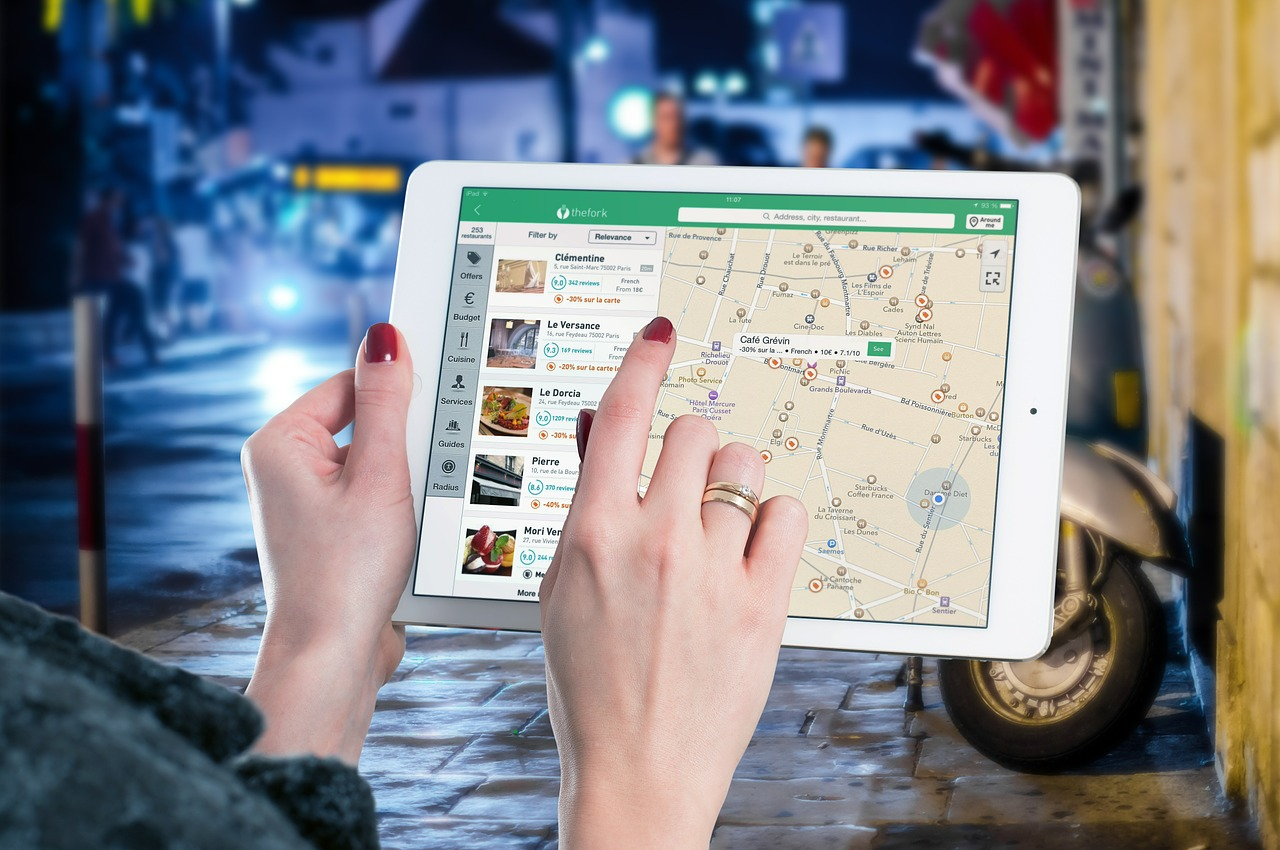
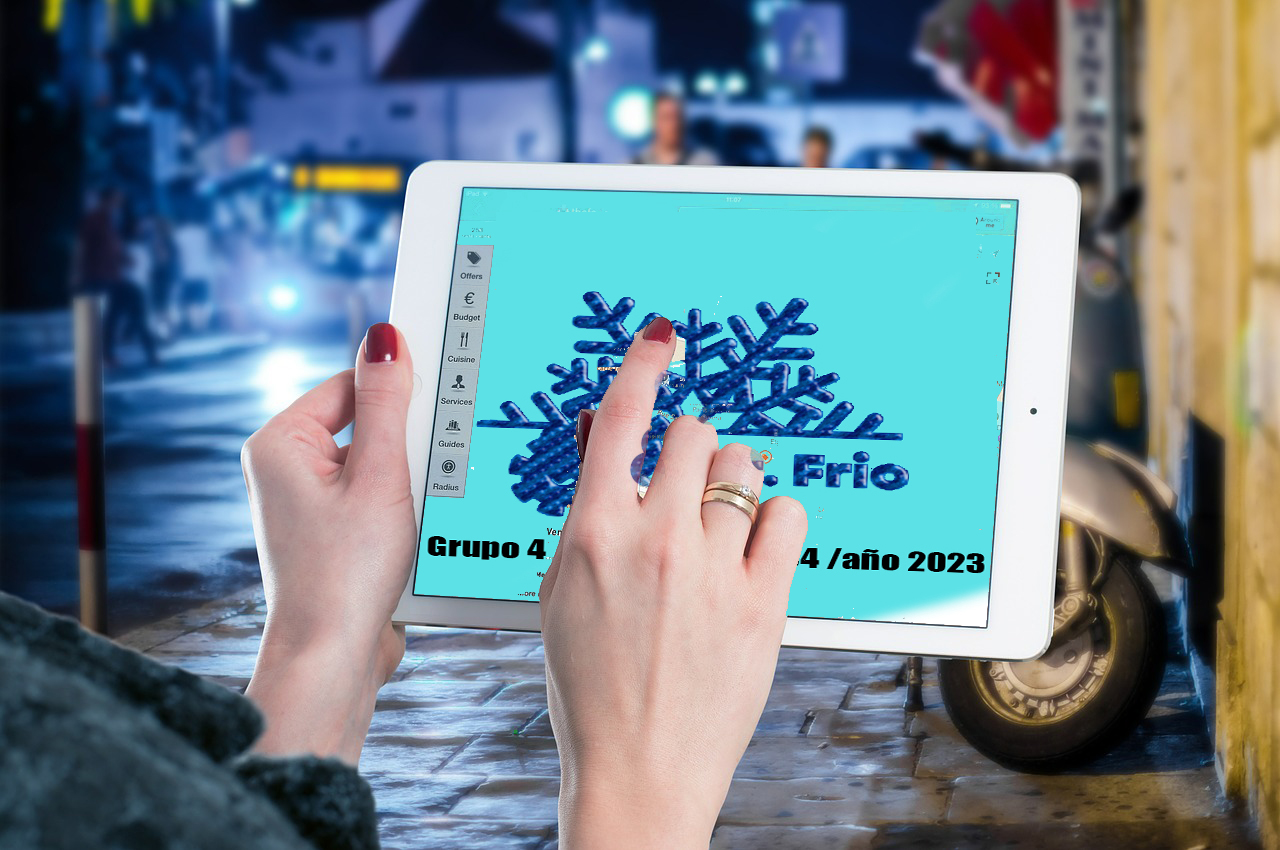
se copio codigo de style_index a Lstyle

Changed region(s): [[0.3125, 0.2141, 0.8125, 0.7341]]

diff --git a/Index copy.html b/Index copy.html
@@ -46,9 +46,9 @@ VERSION : 1.0
 <section id="hero">
 
     <h1>
-    ¡Contrata nuestros servicios <br>ahora!
+        ¡Somos <span class="color-acento">DR Frio!</span><br>servicios las  24hs
     </h1>
-    <a href=""><button>Contrata ahora</button></a>
+    <a href="https://www.youtube.com/lae2005"><button>Contrata ahora</button></a>
 </section>
 <!--fin contrata nuestros servicios banner-->
 <section id="contrata-ahora">
@@ -131,14 +131,93 @@ VERSION : 1.0
 <!--asistencia telefonica-->
 
 
+
+ <!-- seccion contacto -->
+ <div class="contacto" id="contacto">
+    <div>
+        <h2 id="titulo">Contacto</h2>
+        <ul id="lista-contacto">
+            <li><strong>Estamos para ayudarte, contactanos</strong></li>
+            <li><i class="fa-brands fa-whatsapp" style="margin-right: 5px; color:#578fe2;"></i>Escribenos un Whatsapp al:
+                11 2243-1005</li>
+            <li><i class="fa-solid fa-phone-flip" 
+                style="margin-right: 5px; color:#578fe2;"></i>Llamanos al: 11 2243-1005</li>
+            <li><i class="fa-solid fa-envelope" 
+                style="margin-right: 5px; color:#578fe2;"></i>Envianos un email a: 
+                <a href="">drfrio@miemail.com</a></li>
+        </ul>
+    </div>
+
+    <form id="form" class="form" action="" method="">
+        <div class="input-group">
+            <div class="form-control">
+                <label for="nombre">Nombre</label>
+                <input type="text" 
+                    name="nombre" 
+                    id="nombre" 
+                    placeholder="Ingresa tu nombre">
+                    <i class="fas fa-check-circle"></i>
+                    <i class="fas fa-exclamation-circle"></i>
+                <small>Error message</small>
+            </div>
+
+            <div class="form-control">
+                <label for="telefono">Teléfono</label>
+                <input type="tel" 
+                    name="telefono" 
+                    id="telefono" 
+                    placeholder="Ingresa tu telefono">
+                <i class="fas fa-check-circle"></i>
+                <i class="fas fa-exclamation-circle"></i>
+                <small>Error message</small>
+            </div>
+
+            <div class="form-control">
+                <label for="email">Email</label>
+                <input type="email" 
+                    name="email" 
+                    id="email" 
+                    placeholder="example@email.com">
+                <i class="fas fa-check-circle"></i>
+                <i class="fas fa-exclamation-circle"></i>
+                <small>Error message</small>
+            </div>
+
+            <div class="form-control">
+                <label for="mensaje">Mensaje</label>
+                <textarea name="mensaje" 
+                    id="mensaje" 
+                    cols="38" 
+                    rows="5" 
+                    placeholder="Ingresa tu mensaje"></textarea>
+                <i class="fas fa-check-circle"></i>
+                <i class="fas fa-exclamation-circle"></i>
+                <small>Error message</small>
+            </div>
+            <button class="boton" type="submit">Enviar</button>
+        </div>
+    </form>
+</div>
+</main>
+
+
+
+
+
+<!-- script para validacion del formulario -->
+<script src="../validacion/validacion.js"></script>
+
+
+
 <!--final page footer-->
 <footer>
-<div class="container">
-    <p>&copy; DR. Frio 2023</p>
-</div>
-</footer>
-<!--fin final page footer-->
-
+    <div class="container">
+        <img src="Img/Dr._Frio.png" alt="logo-footer">
+        <p class="copyright">&copy; DR. Frio 2023</p>
+    </div>
+    </footer>
+    <!--fin final page footer-->
+    
 
 </body>
 

diff --git a/style/Lstyle.css b/style/Lstyle.css
@@ -187,3 +187,147 @@ footer .container{
 	align-items: flex-end;
 	background-color: grey;
 }
+
+
+
+
+/* estilos seccion contacto */
+
+#titulo {
+    font-size: 2.125rem;
+    padding-top: 55px;
+    text-align: center;
+    margin-bottom: 0;
+}
+
+#lista-contacto {
+    text-align: center;
+    padding: 12px;
+    list-style: none;
+    font-size: 1.6rem;
+}
+
+#lista-contacto li {
+    padding: 6px;
+    margin-bottom: 5px
+}
+
+#lista-contacto li a {
+    text-decoration: none;
+}
+
+form {
+    padding: 2rem;
+    border-radius: 0.5rem;
+    width: 50%;
+    margin: 3.125rem auto 3rem auto;
+    box-shadow: 0 0 20px rgba(0, 0, 0, 0.1);
+}
+
+.form-control{
+    margin-bottom: 10px;
+    padding-bottom: 20px;
+    position: relative;
+}
+
+.input-group {
+    display: flex;
+    flex-direction: column;
+    text-align: left;
+}
+
+label {
+    color: rgb(94, 94, 94);
+    font-size: 15px;
+    font-weight: 600;
+    margin-bottom: 8px;
+}
+
+input,
+textarea {
+    display: block;
+    padding: 17px 25px;
+    border-radius: 5px;
+    width: 90%;
+    background-color: rgba(226, 241, 246, 0.1);
+    border: none;
+    border-bottom: 1px solid #d2d2d2;
+    color: rgba(82, 82, 82, 0.5);
+    outline: none;
+}
+
+input::placeholder,
+textarea::placeholder {
+    color: rgba(79, 78, 80, 0.5);
+}
+
+/* Validacion */
+
+.form-control input:focus{
+    outline: 0;
+    border-color: #57c4e2;
+}
+
+.form-control.success input{
+    border-color: #2ecc71;
+}
+
+.form-control.error input{
+    border-color: #e74c3c;
+}
+
+.form-control i{
+    visibility: hidden;
+    position: absolute;
+    top: 40px;
+    right: 10px;
+}
+
+.form-control.success i.fa-check-circle{
+    color: #2ecc71;
+    visibility: visible;
+}
+
+.form-control.error i.fa-exclamation-circle{
+    color: #e74c3c;
+    visibility: visible;
+}
+
+.form-control small{
+    color: #e74c3c;
+    position: absolute;
+    bottom: 0;
+    left: 0;
+    visibility: hidden;
+}
+
+.form-control.error small{
+    visibility: visible;
+}
+
+.form button {
+    font-size: 18px;
+    color: white;
+    width: 100%;
+    height: 47px;
+    margin-top: 20px;
+    border: 0;
+    border-radius: 25px;
+    background: linear-gradient(45deg, rgb(158, 160, 161), rgb(201, 201, 196));
+    cursor: pointer;
+}
+
+.boton:hover {
+    background: linear-gradient(45deg, rgb(118, 201, 255), rgb(188, 240, 234));
+}
+
+@media(max-width: 991px) {
+    #form {
+        padding: 50px 30px;
+        width: 80%;
+    }
+
+    input {
+        padding: 15px;
+    }
+}

diff --git a/Index.html b/Index.html
@@ -155,7 +155,7 @@ VERSION : 1.0
 
 
     <!-- script para validacion del formulario -->
-    <script src="../validacion/validacion.js"></script>
+    <script src="/validacion/validacion.js"></script>
 </body>
 
 
